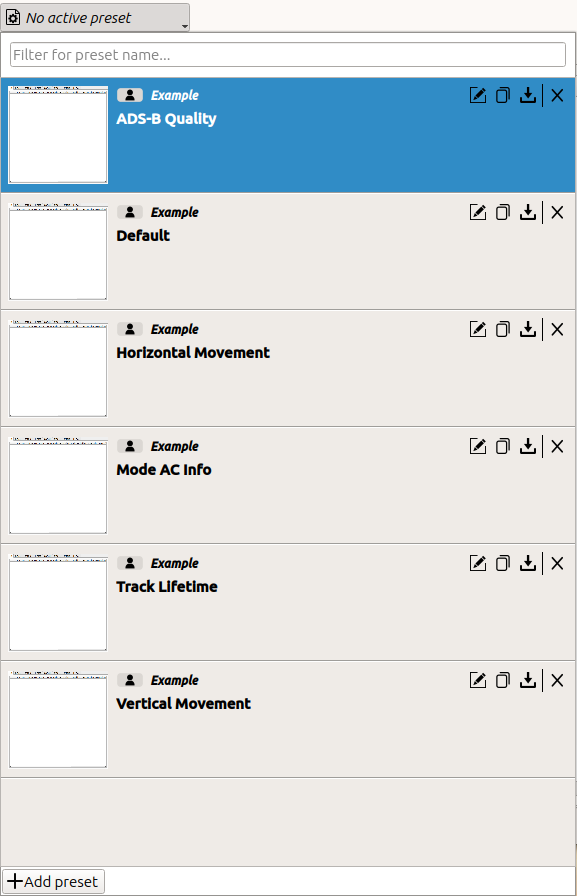
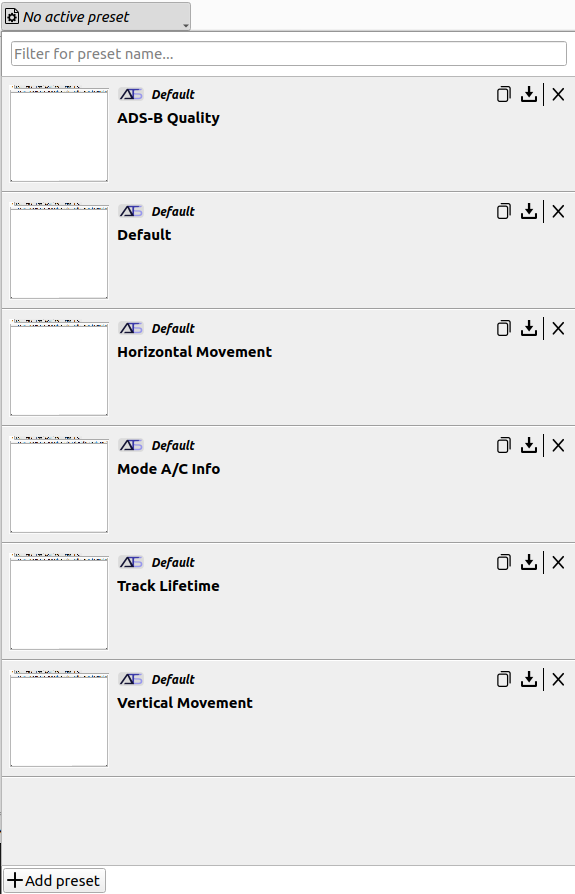
more about view presets

diff --git a/doc/user_manual/ui_overview/ui_views.tex b/doc/user_manual/ui_overview/ui_views.tex
@@ -20,44 +20,125 @@ Currently, the following Views exist:
 
 \subsection{View Presets}
 
-\hl{Each view can be configured to the users needs, to suit various use-cases. For each type of view, a number of pre-defined (default) presets are delivered, which can be used to conveniently set a number of configuration options for specific display purposes. Existing presets can be changed and overridden, also new ones can be created.} \\
+A view can typically be configured via the configuration tab on its right side.
+A view preset represents the state of this configuration for a certain kind of view,
+which can be saved back and restored at a later point for a specific display purpose. 
+Such a 'purpose' could for instance be a certain kind of assessment carried out by the user
+on a regular basis. By making use of view presets, users can restore often used view configurations conveniently. \\
 
-In the toolbar of each view, a preset selection dropdown-menu is shown. If clicked, a menu is shown:
+Please \textbf{note} that view presets are created for a certain type of view (OSGView, HistogramView, etc.),
+and are always shared amongst these views. For each type of view, a number of pre-defined \textit{default presets} are deployed with a new COMPASS release. \\
+
+In the toolbar of each view, the view preset selection is shown on the left side. 
 
 \begin{figure}[H]
-    \includegraphics[width=12cm,frame]{figures/view_presets.png}
+    \center
+    \includegraphics[width=5cm,frame]{figures/view_preset_selection.png}
   \caption{View Preset Selection}
 \end{figure}
 
-All existing view presets are listed, and can be selected with a single left click. A preset contains the following information:
-
-\begin{itemize}
- \item Screenshot: A saved screenshot 
- \item Category: Default (delivered with the application) or created by user
- \item Name: A (unique) descriptive name
- \item Description
-\end{itemize} \ \\
-
-Additionally, a number of actions exist per preset:
-
-\begin{itemize}
- \item \includegraphics[width=0.5cm,frame]{../../data/icons/edit_old.png}: Edit the preset (name, category, description)
- \item \includegraphics[width=0.5cm,frame]{../../data/icons/copy.png}: Copy the preset into a new one
- \item \includegraphics[width=0.5cm,frame]{../../data/icons/save.png}: Save the current changes into the preset
- \item \includegraphics[width=0.5cm,frame]{../../data/icons/delete.png}: Delete the preset
-\end{itemize} \ \\
-
-Editing a preset shows the following dialog:
+It displays the name of the last applied preset, if no preset has been applied it shows \textit{No active preset}.
+If the view configuration has been modified since a preset has been applied, a change indicator (*) is displayed after the preset name.
 
 \begin{figure}[H]
+    \center
+    \includegraphics[width=5cm,frame]{figures/view_preset_selection_modified.png}
+  \caption{View Preset Selection - Modified Preset}
+\end{figure}
+
+When clicked, the view preset list opens:
+
+\begin{figure}[H]
+    \center
+    \includegraphics[width=10cm,frame]{figures/view_presets.png}
+  \caption{View Preset Selection - Preset List}
+\end{figure}
+
+All view presets existing for the current type of view are listed, and can be applied with a single left click on a preset item. 
+Applying the preset will reconfigure the view and refresh it accordingly. \\
+
+Please \textbf{note} that if a view preset is selected, the configuration is applied immediately, often triggering a reload of the surveillance data. \\
+
+A preset item contains the following information:
+
+\begin{itemize}
+ \item \textbf{Screenshot}: A screenshot of the view, taken when the preset is created/saved, serving as a preview image for the preset
+ \item \textbf{Preset Origin}: Icon, showing where the preset originates from, either \includegraphics[width=0.5cm,frame]{figures/view_presets_origin_openats.png} (delivered with the application) 
+ or \includegraphics[width=0.5cm,frame]{figures/view_presets_origin_user.png} (created by user)
+ \item \textbf{Category}: A preset category, either \textit{Default} (delivered with the application) or (optionally) specified by user
+ \item \textbf{Name}: A (unique) descriptive name
+ \item \textbf{Description}: An optional description of the preset
+\end{itemize} \ \\
+
+Additionally, a number of actions exist for each preset:
+
+\begin{itemize}
+ \item \includegraphics[width=0.5cm,frame]{../../data/icons/edit_old.png}: \textit{Edit} the preset's meta-information (category, description)
+ \item \includegraphics[width=0.5cm,frame]{../../data/icons/copy.png}: \textit{Copy} the preset into a new one
+ \item \includegraphics[width=0.5cm,frame]{../../data/icons/save.png}: \textit{Save} the current view configuration into the preset
+ \item \includegraphics[width=0.5cm,frame]{../../data/icons/delete.png}: \textit{Delete} the preset
+\end{itemize} \ \\
+
+Please \textbf{note} that since presets are shared amongst a certain type of view (e.g. OSGView), applying these actions to a preset 
+will alter the preset for all views of the same type. \\
+
+\textit{Example}: Deleting a preset in OSGView will remove the preset for all currently existing and future OSGViews. \\
+
+Each type of action will be described in more detail below:
+
+\paragraph*{Edit} The category and description of a preset can be edited by clicking the \textit{edit} action, which opens the following dialog:
+
+\begin{figure}[H]
+    \center
     \includegraphics[width=10cm]{figures/view_preset_edit.png}
   \caption{View Preset Editing}
 \end{figure}
 
-At the very bottom, a button exists for adding new presets, as for creating a new preset from the current configuration. \\
+\paragraph*{Copy} A preset can be copied to a new preset by clicking the \textit{copy} action, which opens the following dialog:
 
-Please \textbf{note} that if a view preset is selected, the configuration is applied automatically, often triggering a reload of the surveillance data. \\
-Also, if changes are made in the configuration tab, these changes are not saved to the preset by default. Such an action as to be performed manually by the user. \\
+\begin{figure}[H]
+    \center
+    \includegraphics[width=10cm]{figures/view_preset_copy.png}
+  \caption{View Preset Copying}
+\end{figure}
 
-Please also \textbf{note} that user-created view presets are created per COMPASS version, and have to be created each time a COMPASS version upgrade is performed. If this is cumbersome, or if a view preset was created which should added as a default one, please contact \href{mailto:compass@openats.at}{compass@openats.at} for support.
+Then a new (unique) name can be specified for the copied preset, and the category and description can be edited.
+The view configuration stored in the copied preset will be transferred to the new preset.
 
+\paragraph*{Save} The current view configuration can be saved to an existing preset by clicking the \textit{save} action. \\
+
+Please \textbf{note} that if changes are made in the configuration tab of a view, these changes are not saved to a preset automatically. 
+Such an action has to be performed manually by the user using this functionality.
+
+\paragraph*{Delete} A preset can be deleted by clicking the \textit{delete} action.
+In the case of a default preset (a preset delivered with the application), the user will be prompted if the preset should really
+be deleted. \\
+
+Please \textbf{note} that presets will be deleted \textbf{permanently}, so once removed, default presets cannot be recovered easily.
+
+\paragraph*{Creating New Presets} The \textit{Add preset} button resides at the bottom of the preset list, 
+and can be used to create a new preset from the current view configuration. Clicking the button will open the following dialog:
+
+\begin{figure}[H]
+    \center
+    \includegraphics[width=10cm]{figures/view_preset_add.png}
+  \caption{Creating a New Preset}
+\end{figure}
+
+A unique name has to be be specified. Optionally, a category and description for the new preset can be entered.
+
+\paragraph*{Filtering Presets} At the top of the preset list, a filter text field resides, which can be used to filter presets by name.
+
+\begin{figure}[H]
+    \center
+    \includegraphics[width=10cm]{figures/view_preset_filter.png}
+  \caption{Filtering Presets by Name}
+\end{figure}
+
+\paragraph*{Presets and COMPASS Version}
+
+Please \textbf{note} that user-created view presets are always created for the currently running COMPASS version, 
+and have to be recreated manually each time a COMPASS version upgrade is performed. \\
+
+If this is cumbersome, or if a specific view preset should added to the list of default presets officially deployed with compass, 
+please contact \href{mailto:compass@openats.at}{compass@openats.at} for support.

diff --git a/doc/user_manual/appendix/appendix_configuration.tex b/doc/user_manual/appendix/appendix_configuration.tex
@@ -17,10 +17,10 @@ Directory structure:
 \begin{itemize}
 \item conf/: Configuration as described in \nameref{sec:appendix_config_config_folder}
 \item data/: Data as described in \nameref{sec:appendix_config_data_folder}
+\item presets/: Configuration presets as described in \nameref{sec:appendix_config_preset_folder}
 \end{itemize}
 \item osgearth\_cache: OSGEarth cache folder (for downloaded map information)
 \end{itemize}
-
 
 \subsection{Pre-v0.6.0 and older}
 
@@ -84,7 +84,6 @@ All application configuration is stored as JSON files, which are read during sta
 % \end{itemize}
 \end{itemize}
 
-
 \subsection{Data Folder}
 \label{sec:appendix_config_data_folder}
 
@@ -98,3 +97,14 @@ The data folder contains e.g. used images, 3rd party (static) configuration etc.
 \item maps: OSGView map files
 \item textures: OSGView symbol textures
 \end{itemize}
+
+\subsection{Preset Folder}
+\label{sec:appendix_config_preset_folder}
+
+The preset folder contains configuration presets.
+
+\begin{itemize}
+    \item view: View Presets. Contains a subfolder for each kind of view, where the view-specific presets are stored.
+\end{itemize} \ \\
+
+Presets are stored as JSON files.
